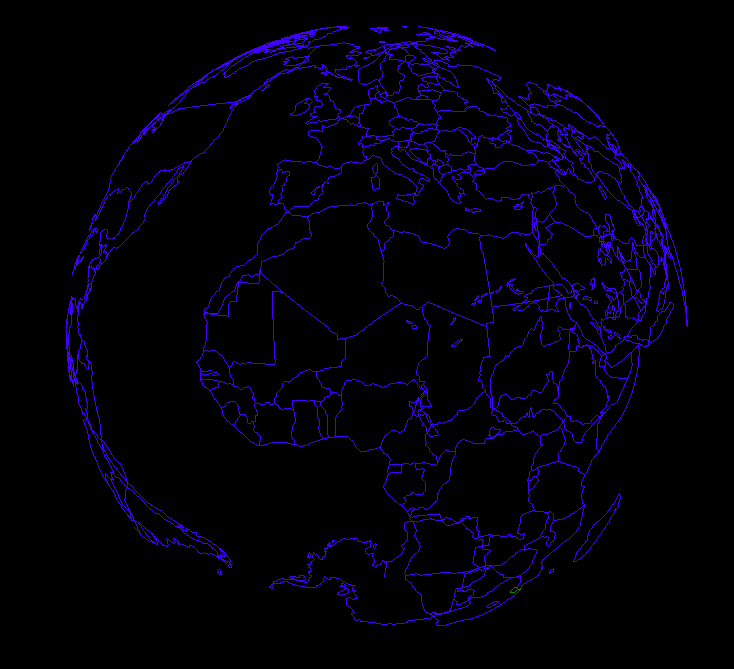
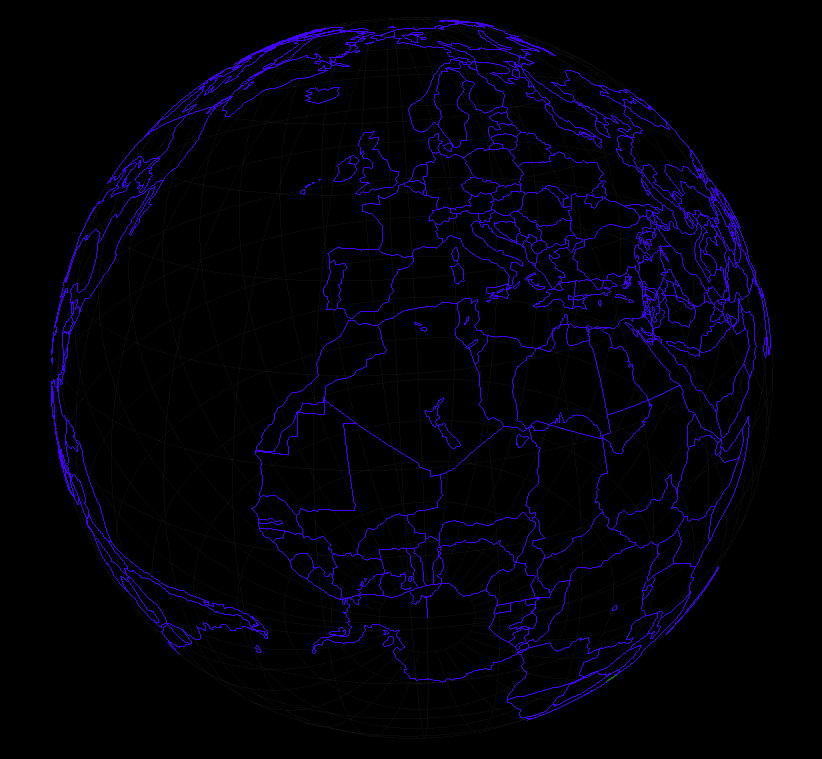
Add graticules to example

diff --git a/example/countries/index.html b/example/countries/index.html
@@ -1,6 +1,8 @@
 <head>
   <style> body { margin: 0; } </style>
 
+  <script src="//unpkg.com/d3"></script>
+
   <script src="//unpkg.com/three"></script>
   <script src="//unpkg.com/three-trackballcontrols-web/dist/three-trackballcontrols.min.js"></script>
   <script src="//unpkg.com/three-geojson-geometry"></script>
@@ -14,15 +16,22 @@
   fetch('../geojson/ne_110m_admin_0_countries.geojson').then(res => res.json()).then(countries =>
   {
     const alt = 50;
+
+    const lineObjs = [
+      new THREE.LineSegments(
+        new THREE.GeoJsonBufferGeometry(d3.geoGraticule10(), alt),
+        new THREE.LineBasicMaterial({ color: 'white', opacity: 0.035, transparent: true })
+      )
+    ];
+
     const materials = [
       new THREE.LineBasicMaterial({ color: 'blue' }), // outer ring
       new THREE.LineBasicMaterial({ color: 'green' }) // inner holes
     ];
 
-    const lineObjs = [];
     countries.features.forEach(({ properties, geometry }) => {
       lineObjs.push(new THREE.LineSegments(
-        new THREE.GeoJsonBufferGeometry(geometry, alt),
+        new THREE.GeoJsonBufferGeometry(geometry, alt, 5),
         materials
       ))
     });
